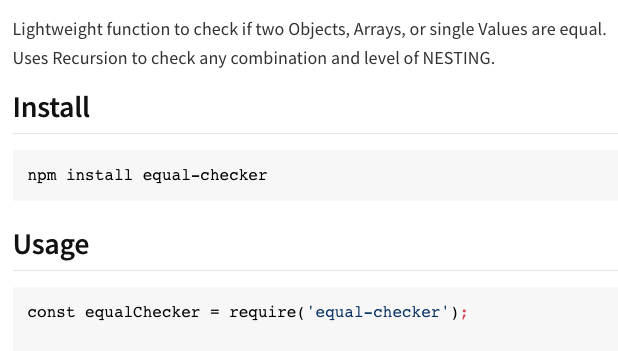
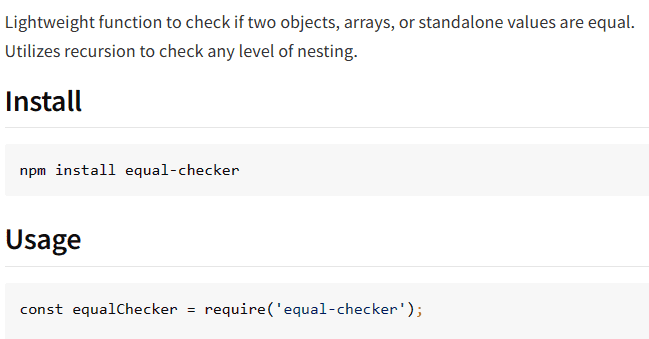
image updates and project description

diff --git a/src/assets/data/ProjectList.js b/src/assets/data/ProjectList.js
@@ -27,49 +27,51 @@ const projects = [
     spotlight: true
   },
   {
-    id: 'ghostwriter',
+    id: 'ghostwriter-js',
     name : "Ghostwriter JS",
-    image: '/img/projects/ghostwriter-1.png',
+    image: '/img/projects/ghostwriter-js-1.png',
     techs : [skills.HTML5, skills.SCSS, skills.JavaScript],
     github : "https://github.com/sandropernerstorfer/ghostwriter-js",
     live : "https://main.d2krtq4ptna642.amplifyapp.com/",
-    route: "/projects/ghostwriter",
+    route: "/projects/ghostwriter-js",
     desc: {
       en: 
-      `Ghostwriter is a small & fun Frontend Tool that will take two user inputs : 
-      Text and Milliseconds. In the Preview Window you will then see your text being 
-      displayed letter after letter for the wanted duration. 
-      Below you can copy the already generated code with one click to use wherever you want.`,
+      `Generate code to animate your text.
+      Just enter the following two inputs: text and duration.
+      Inside the preview box, the given text will then be displayed letter after letter.
+      The duration input controls the typing tempo.
+      Copy the generated code with one click and use it wherever you want!`,
 
       de: 
-      `Ghostwriter ist ein kleines Frontend Tool welches zwei Inputs annimmt: 
-      Text und Millisekunden. Im Vorschaufenster wird dann der Text 
-      Buchstabe für Buchstabe für die gewünschte Dauer angezeigt. 
-      Unten kann der bereits generierte Code mit einem Klick kopiert und verwendet werden.`
+      `Generiert Code der deinen Text animiert.
+      Gib einfach folgende zwei Werte an: Text und Dauer.
+      Im Vorschaufenster wird dann der Text Buchstabe für Buchstabe erscheinen.
+      Die Dauer kontrolliert das Tipp-Tempo. 
+      Der bereits generierte Code kann mit einem Klick kopiert und verwendet werden.`
     },
-    screenshots: ['/img/projects/ghostwriter-2.png', '/img/projects/ghostwriter-3.png'],
+    screenshots: ['/img/projects/ghostwriter-js-2.png', '/img/projects/ghostwriter-js-3.png'],
     spotlight: true
   },
   {
-    id: 'equal-checker-npm',
+    id: 'equal-checker',
     name : "Equal Checker",
     image: '/img/projects/equal-checker-1.png',
     techs : [skills.JavaScript],
-    github : "https://github.com/sandropernerstorfer/equal-checker-npm",
+    github : "https://github.com/sandropernerstorfer/equal-checker",
     live : "https://www.npmjs.com/package/equal-checker",
-    route: "/projects/equal-checker-npm",
+    route: "/projects/equal-checker",
     desc: {
       en: 
-      `A small and useful NPM Package written in JavaScript. Checks if two values are equal. 
-      Works on single Values, Arrays, Objects. 
-      Uses Recursion to also check any combination and level of Nesting. 
-      Optional Type-Checking, and optional returning of Error Messages.`,
+      `Lightweight npm-package written in JavaScript.
+      Checks if two objects, arrays or standalone values are equal. 
+      Utilizes recursion to check any combination and level of nesting. 
+      Optional type checking, and optional returning of error messages.`,
 
       de: 
-      `Ein kleines und nützliches NPM Package geschrieben in JavaScript. Überprüft ob zwei Werte identisch sind. 
-      Funktioniert mit einzelnen Werten, Arrays, und Objekten. 
-      Benutzt Rekursion um jede Art und Tiefe von Verschachtelungen zu überprüfen. 
-      Optionales Type-Checking, und optionale rückgabe von Fehler Meldungen.`
+      `Nützliches npm-package, geschrieben in JavaScript.
+      Überprüft ob zwei Objekte, Arrays oder einzelne Werte identisch sind.
+      Der rekursive Aufruf kümmert sich um jegliche Art und Tiefe von Verschachtelungen. 
+      Optionales Type-Checking, und optionale Fehlermeldungen.`
     },
     screenshots: ['/img/projects/equal-checker-2.png', '/img/projects/equal-checker-3.png'],
     spotlight: true
@@ -84,28 +86,28 @@ const projects = [
     route: "/projects/hmi-data-merge",
     desc: {
       en: 
-      `This Script got created for a company to automate a special kind of excel task. 
-      It will take the Master Instrument Excel File, and filter the data based on the user input: P&ID and Typicals. 
-      For each given Typical the data will be processed and saved controlled by the corresponding Typical Filter Logic. 
-      Output will then be stored on the desktop as new Excel File with one new Sheet for each filtered typical.`,
+      `This application was developed for a company working in the automation industry, and acted as a development tool.
+      Job of this tool was to update and merge giant excel files full of instruments, equipment, sensors and motors with lots of categorized sheets and special cases.
+      No manual merging and quick HMI (Human Machine Interface) data import.
+      `,
 
       de: 
-      `Dieses Script wurde für eine Firma entwickelt um eine spezielle Excel Arbeit zu automatisieren.
-      Es lädt zuerst die Master Instrument Excel Datei und filtert dann den Inhalt je nach User Input: P&ID und Typicals.
-      Die Daten werden für jedes angegebene Typical auf eine eigene art gefiltert und bearbeitet, je nach Typical Filter Logik.
-      Der Output wird dann in Form von einer neuen Excel Datei am Desktop gespeichert.`
+      `Diese Anwendung wurde für ein Unternehmen entwickelt, das in der Automatisierungsbranche tätig ist, und diente als Entwicklungswerkzeug.
+      Die Aufgabe dieses Tools bestand darin, riesige Excel-Dateien voller Instrumente, Geräte, Sensoren, Motoren usw. zu aktualisieren und zusammenzuführen.
+      Mit vielen kategorisierten Excel-Sheets und Sonderfällen.
+      Man erspart sich das manuelle Zusammenführen und erzielt einen schnellen HMI-Datenimport (Human Machine Interface).`
     },
     screenshots: ['/img/projects/hmi-data-merge-2.png', '/img/projects/hmi-data-merge-3.png'],
     spotlight: true
   },
   {
-    id: 'react-portfolio',
+    id: 'portfolio',
     name : "Portfolio",
     image: '/img/projects/portfolio-1.png',
     techs : [skills.JavaScript, skills.React, skills.Redux, skills['Styled Components']],
     github : "https://github.com/sandropernerstorfer/portfolio",
     live : "",
-    route: "/projects/react-portfolio",
+    route: "/projects/portfolio",
     desc: {
       en: 
       `My Portfolio Page built with React, Styled Components, Redux 
